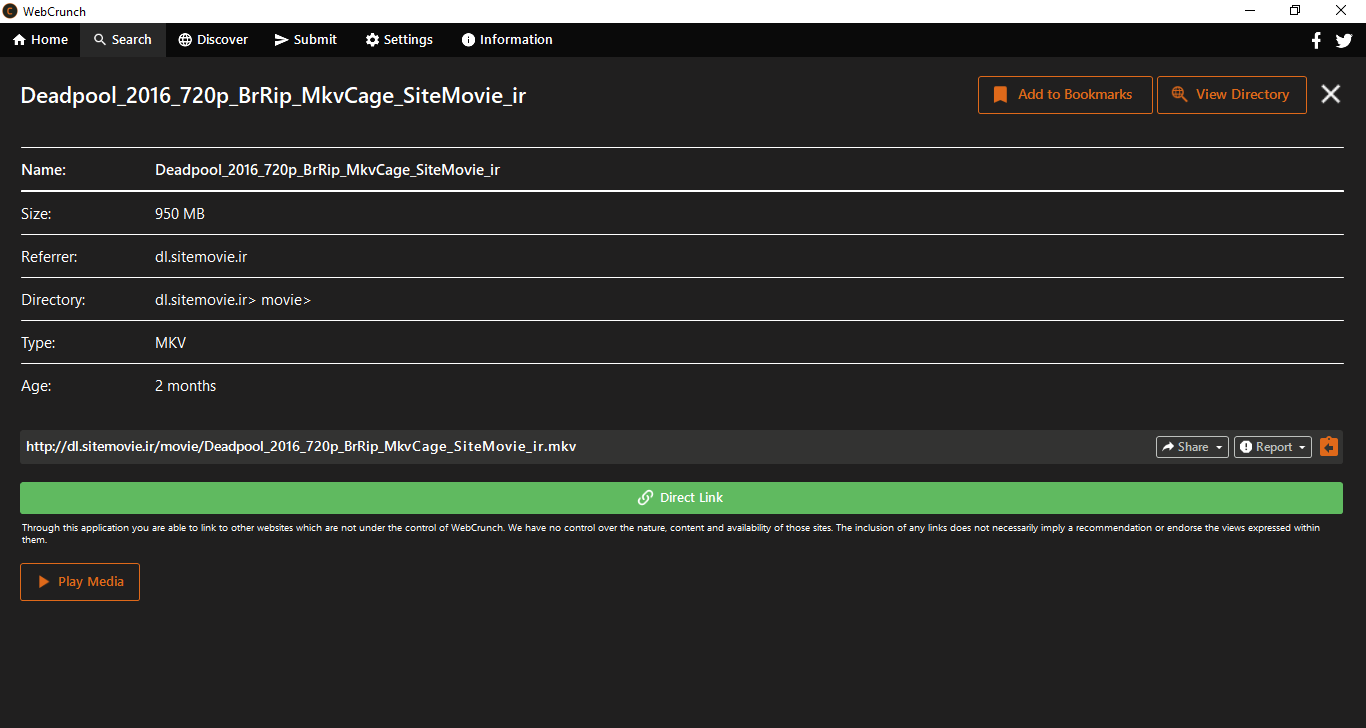
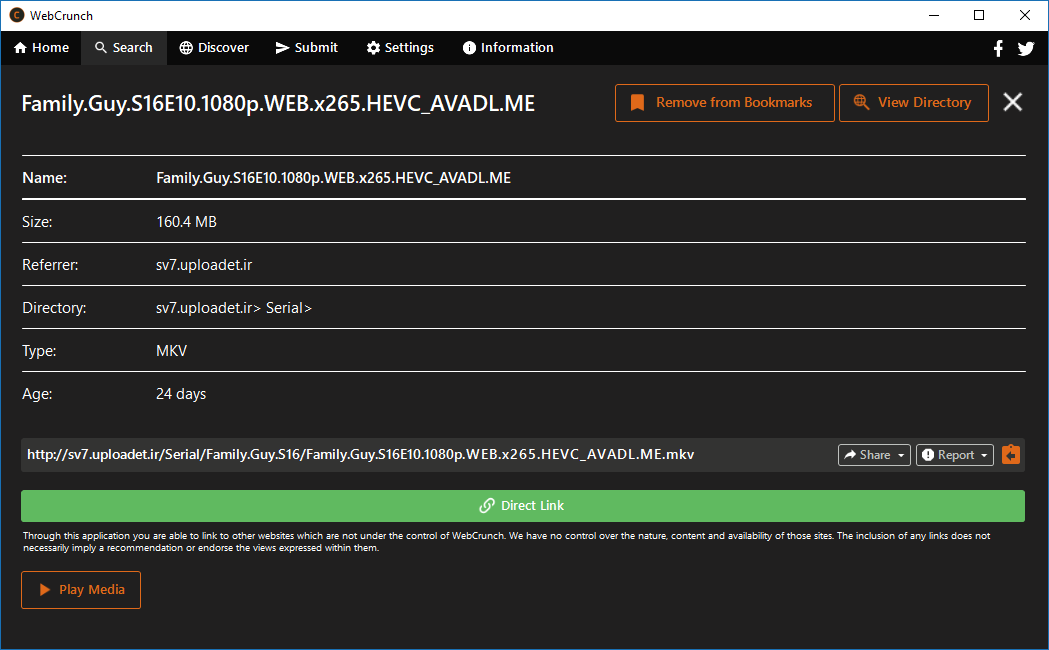
Updated screenshots Added perma latest release link

diff --git a/WebCrunch/MainForm.cs b/WebCrunch/MainForm.cs
@@ -82,7 +82,7 @@ namespace WebCrunch
 
         // Updates
         public static string urlLatestVersion = "https://raw.githubusercontent.com/ekkash/WebCrunch/master/WebCrunch/current-version.txt";
-        public static string urlLatestRelease = "https://github.com/ekkash/WebCrunch/releases/";
+        public static string urlLatestRelease = "https://github.com/ekkash/WebCrunch/releases/latest";
         public static string getUrlLatestUpdater(Version newVersion) { return "https://github.com/ekkash/WebCrunch/releases/download/" + newVersion.ToString() + "/Update.exe"; }
 
         // Misc
